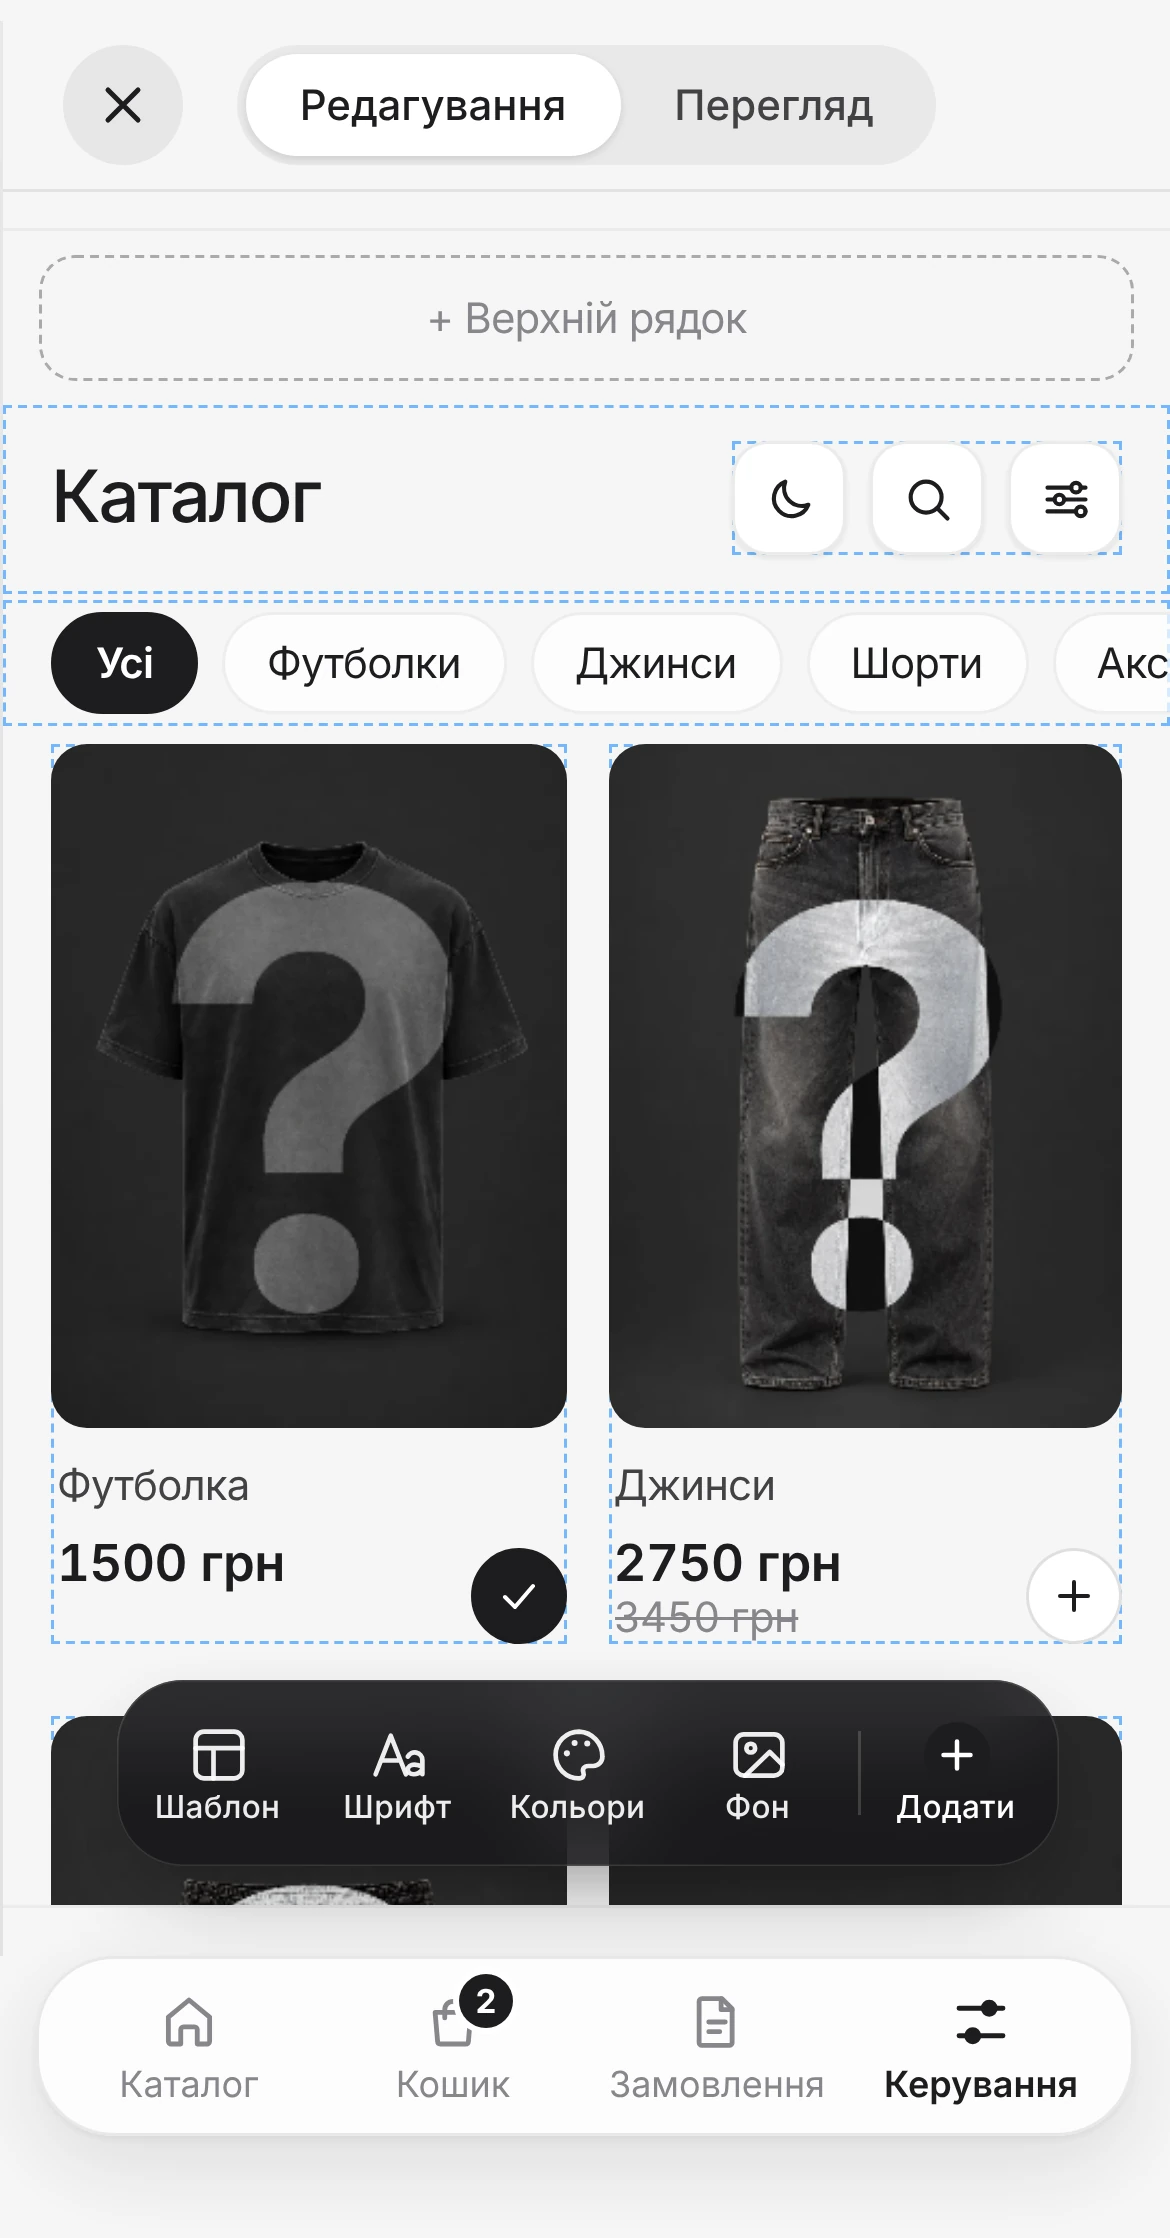
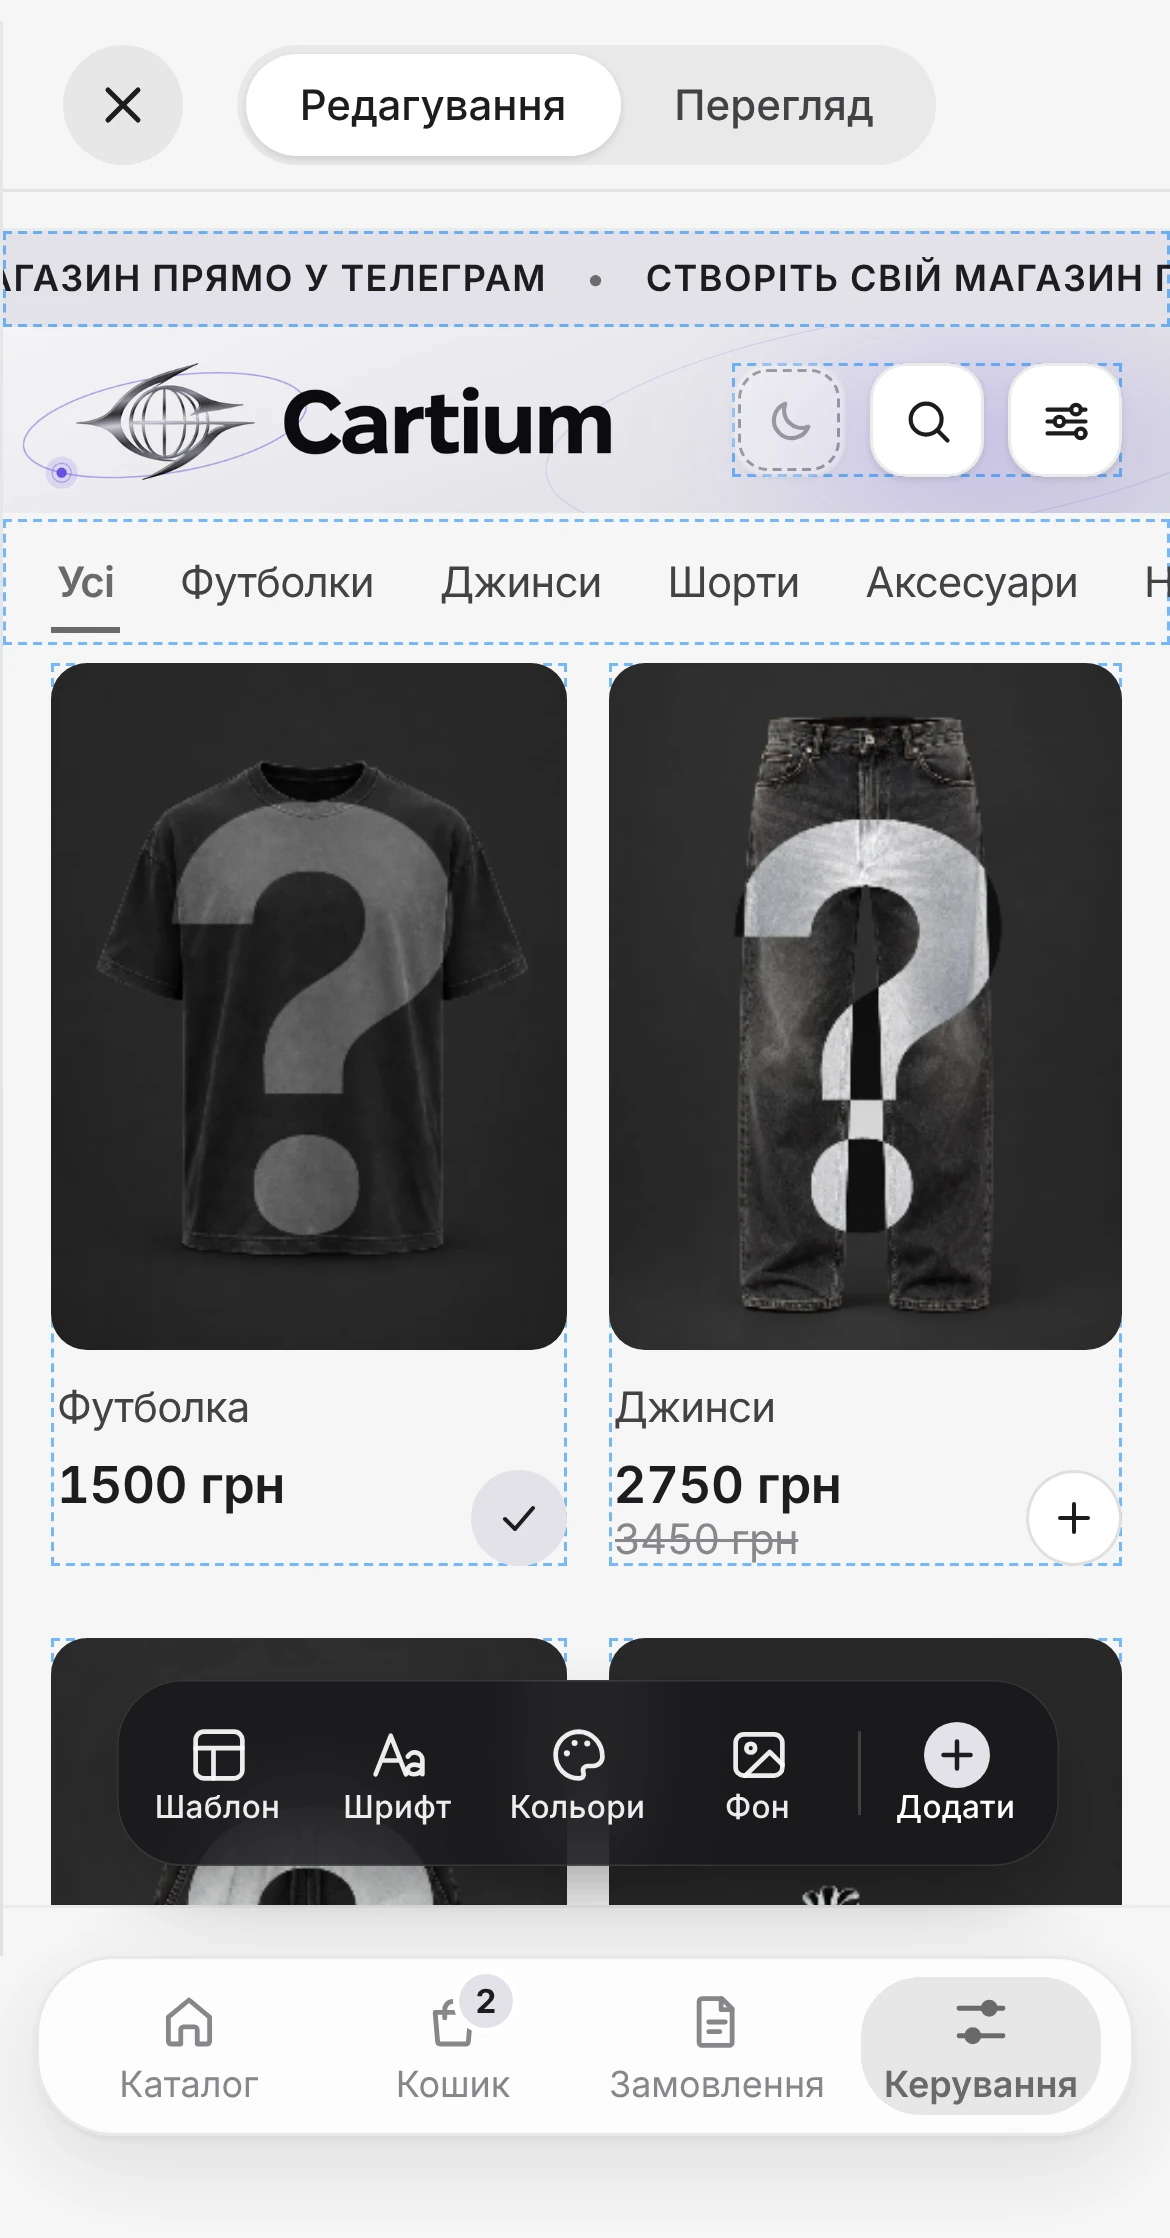
Знімки вітрини з новим банером демо-магазину
Вітрина, перегляд товару і 4 знімки «Вигляду» тепер показують шапку
Cartium з банером-картинкою, світлим верхнім рядком і світлим акцентом.
Банер лежить у tools/demo-header, патч docshots підставляє його лише в
знімки, де видно вітрину.

Claude-Session: https://claude.ai/code/session_01Tv2wQFppwYmbFZYaBaPUTS

diff --git a/docs/assets/shots/README.md b/docs/assets/shots/README.md
@@ -13,8 +13,9 @@
 cd insomnia.workshop
 git apply <шлях до tgshop-docs>/tools/docshots-harness.patch
 
-# 2. Згенерувати знімки (фото товарів беруться з cartium-website)
+# 2. Згенерувати знімки (фото товарів беруться з cartium-website, банер шапки з tools/demo-header)
 DSF=3 PRODUCT_PHOTOS=<шлях до cartium-website>/src/assets/products \
+  HEADER_ASSETS=<шлях до tgshop-docs>/tools/demo-header \
   node tools/webapp-harness/run.mjs docshots
 
 # 3. Повернути продукт як було
@@ -26,6 +27,8 @@ python tools/export_shots.py <шлях до insomnia.workshop>/tools/webapp-harn
 ```
 
 Знімки експортуються **без округлених кутів і без статус-бару**: рамку iPhone (титанова смуга, Dynamic Island, статус-бар, індикатор «додому») домальовує сайт — хук `hooks/phone_frame.py` обгортає кожне `![…](…){ .phone }`. Якщо Chrome не стартує від root, передайте `CHROME_PATH` на обгортку з `--no-sandbox`.
+
+Вітрина на знімках виглядає як демо-магазин Cartium: світлий верхній рядок «СТВОРІТЬ СВІЙ МАГАЗИН ПРЯМО У ТЕЛЕГРАМ», банер шапки (логотип і назва намальовані в одній картинці `tools/demo-header/header-banner.png`, 1600×400), світлий акцент, категорії лінією, без перемикача теми. Цей вигляд отримують лише знімки, де видно вітрину (`shell-catalog`, `product-preview`, `appearance*`), список `SHOP_LOOK` у патчі. Якщо в демо-магазині змінили банер, замініть картинку в `tools/demo-header/` і перегенеруйте ці знімки.
 
 Сценарій: `tools/webapp-harness/suites/docshots.mjs` (один сценарій = один файл; назва сценарію = назва файлу). Після зміни інтерфейсу продукту пройдіть кроки 1–4 і перегляньте результат.
 
